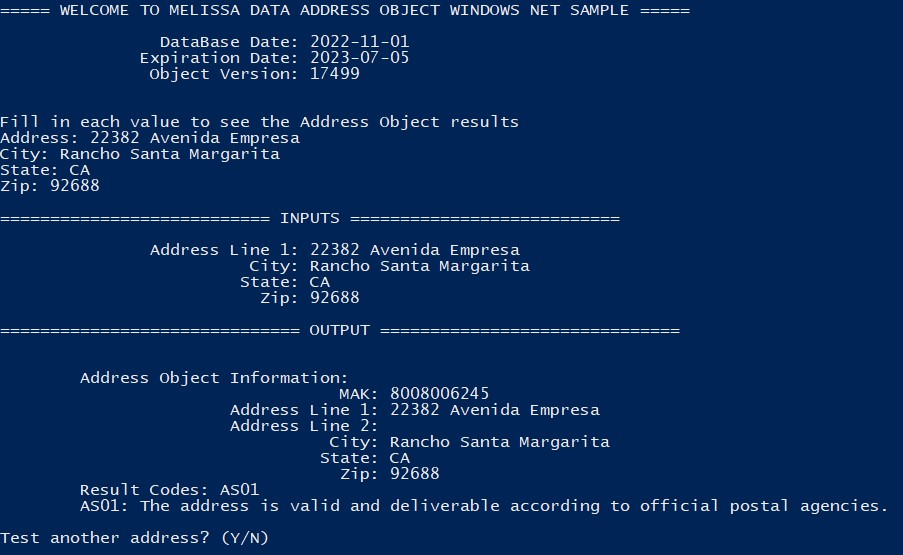
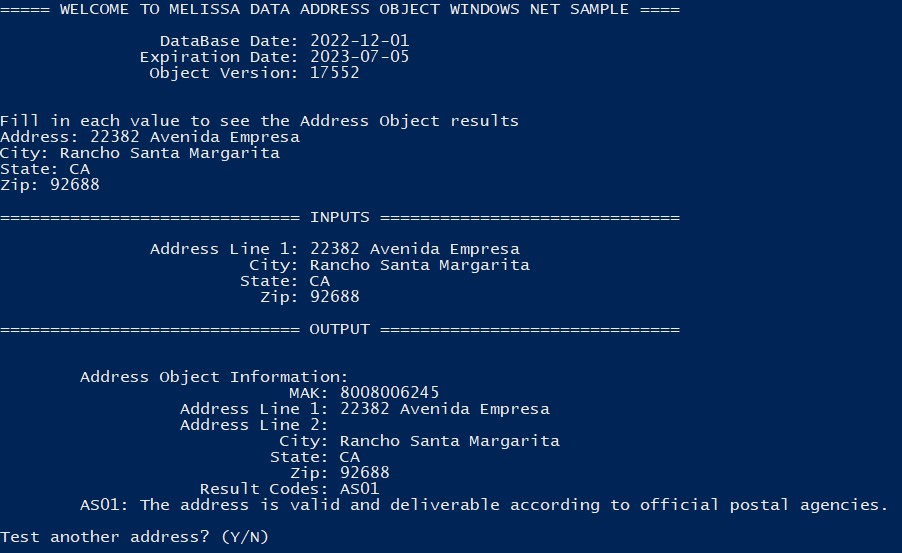
Commit C# Dotnet sample code for Address Object with .NET 7.0

diff --git a/MelissaDataAddressObjectWindowsNETSample/Program.cs b/MelissaDataAddressObjectWindowsNETSample/Program.cs
@@ -66,7 +66,7 @@ namespace MelissaDataAddressObjectWindowsNETSample
 
     static void RunAsConsole(string license, string testAddress, string testCity, string testState, string testZip, string dataPath)
     {
-      Console.WriteLine("\n\n===== WELCOME TO MELISSA DATA ADDRESS OBJECT WINDOWS NET SAMPLE =====\n");
+      Console.WriteLine("\n\n===== WELCOME TO MELISSA DATA ADDRESS OBJECT WINDOWS NET SAMPLE ====\n");
 
       AddressObject addressObject = new AddressObject(license, dataPath);
 
@@ -85,24 +85,16 @@ namespace MelissaDataAddressObjectWindowsNETSample
         {
           Console.WriteLine("\nFill in each value to see the Address Object results");
 
-          Console.WriteLine("Address:");
-          Console.CursorTop -= 1;
-          Console.CursorLeft = 9;
+          Console.Write("Address: ");
           dataContainer.Address = Console.ReadLine();
         
-          Console.WriteLine("City:");
-          Console.CursorTop -= 1;
-          Console.CursorLeft = 6;
+          Console.Write("City: ");
           dataContainer.City = Console.ReadLine();
         
-          Console.WriteLine("State:");
-          Console.CursorTop -= 1;
-          Console.CursorLeft = 7;
+          Console.Write("State: ");
           dataContainer.State = Console.ReadLine();
         
-          Console.WriteLine("Zip:");
-          Console.CursorTop -= 1;
-          Console.CursorLeft = 5;
+          Console.Write("Zip: ");
           dataContainer.Zip = Console.ReadLine();
         }
         else
@@ -114,7 +106,7 @@ namespace MelissaDataAddressObjectWindowsNETSample
         }
 
         // Print user input
-        Console.WriteLine("\n=========================== INPUTS ===========================\n");
+        Console.WriteLine("\n============================== INPUTS ==============================\n");
         Console.WriteLine($"               Address Line 1: {dataContainer.Address}");
         Console.WriteLine($"                         City: {dataContainer.City}");
         Console.WriteLine($"                        State: {dataContainer.State}");
@@ -126,14 +118,13 @@ namespace MelissaDataAddressObjectWindowsNETSample
         // Print output
         Console.WriteLine("\n============================== OUTPUT ==============================\n");
         Console.WriteLine("\n\tAddress Object Information:");
-
-        Console.WriteLine($"\t                          MAK: {addressObject.mdAddressObj.GetMelissaAddressKey()}");
-        Console.WriteLine($"\t               Address Line 1: {addressObject.mdAddressObj.GetAddress()}");
-        Console.WriteLine($"\t               Address Line 2: {addressObject.mdAddressObj.GetAddress2()}");
-        Console.WriteLine($"\t                         City: {addressObject.mdAddressObj.GetCity()}");
-        Console.WriteLine($"\t                        State: {addressObject.mdAddressObj.GetState()}");
-        Console.WriteLine($"\t                          Zip: {addressObject.mdAddressObj.GetZip()}");
-        Console.WriteLine($"\tResult Codes: {dataContainer.ResultCodes}");
+        Console.WriteLine($"\t                     MAK: {addressObject.mdAddressObj.GetMelissaAddressKey()}");
+        Console.WriteLine($"\t          Address Line 1: {addressObject.mdAddressObj.GetAddress()}");
+        Console.WriteLine($"\t          Address Line 2: {addressObject.mdAddressObj.GetAddress2()}");
+        Console.WriteLine($"\t                    City: {addressObject.mdAddressObj.GetCity()}");
+        Console.WriteLine($"\t                   State: {addressObject.mdAddressObj.GetState()}");
+        Console.WriteLine($"\t                     Zip: {addressObject.mdAddressObj.GetZip()}");
+        Console.WriteLine($"\t            Result Codes: {dataContainer.ResultCodes}");
 
         String[] rs = dataContainer.ResultCodes.Split(',');
         foreach (String r in rs)

diff --git a/README.md b/README.md
@@ -23,7 +23,7 @@ And return
 
 ## Tested Environments
 
-- Windows 64-bit .NET 6.0, .NET 5.0, .NET Core 3.1
+- Windows 64-bit .NET 7.0, .NET 6.0, .NET 5.0, .NET Core 3.1
 - Powershell 5.1
 - Melissa data files for 2022-12
 
@@ -63,28 +63,28 @@ This is the c++ code of the Melissa Data Object
 
 These instructions will get you a copy of the project up and running on your local machine for development and testing purposes.
 
-This project is compatible with .NET 6.0, .NET 5.0, and .NET Core 3.1. If you would like to run this project for any other version besides .NET 6.0, proceed with the following procedures but check for and download your desired .NET version.
+This project is compatible with .NET 7.0, .NET 6.0, .NET 5.0, and .NET Core 3.1. If you would like to run this project for any other version besides .NET 7.0, proceed with the following procedures but check for and download your desired .NET version.
 
 #### Install the Dotnet Core SDK
-Before starting, make sure that the .NET 6.0 SDK has been correctly installed on your machine (If you have Visual Studio installed, you most likely have it already). If you are unsure, you can check by opening a command prompt window and typing the following:
+Before starting, make sure that the .NET 7.0 SDK has been correctly installed on your machine (If you have Visual Studio installed, you most likely have it already). If you are unsure, you can check by opening a command prompt window and typing the following:
 
 `dotnet --list-sdks`
 
-If the .NET 6.0 SDK is already installed, you should see it in the following list:
+If the .NET 7.0 SDK is already installed, you should see it in the following list:
 
 ![alt text](/screenshots/dotnet_output.png)
 
-As long as the above list contains version `6.0.xxx` (underlined in red), then you can skip to the next step. If your list does not contain version 6.0, or you get any kind of error message, then you will need to download and install the .NET 6.0 SDK from the Microsoft website.
+As long as the above list contains version `7.0.xxx` (underlined in red), then you can skip to the next step. If your list does not contain version 7.0, or you get any kind of error message, then you will need to download and install the .NET 7.0 SDK from the Microsoft website.
 
 To download, follow this link: https://dotnet.microsoft.com/en-us/download/dotnet
 
-Select `.NET 6.0` and you will be navigated to the download page.
+Select `.NET 7.0` and you will be navigated to the download page.
 
 Click and download the `x64` SDK installer for your operating system.
 
 (IMPORTANT: Make sure you download the SDK, NOT the runtime. the SDK contains both the runtime as well as the tools needed to build the project.)
 
-![alt text](/screenshots/net6.png)
+![alt text](/screenshots/net7.png)
 
 Once clicked, your web browser will begin downloading an installer for the SDK. Run the installer and follow all of the prompts to complete the installation (your computer may ask you to restart before you can continue). Once all of that is done, you should be able to verify that the SDK is installed with the `dotnet --list-sdks` command.
 
@@ -127,13 +127,14 @@ Melissa Updater is a CLI application allowing the user to update their Melissa a
 
 Depending on your target .NET framework, you may need to configure the powershell script. In order to do this, open up the `MelissaDataAddressObjectWindowsNETSample.ps1` for editing, proceed to the bottom of the script where you will find this section of code.
 
-Default set for .NET 6.0
+Default set for .NET 7.0
 ```
-dotnet publish -f="net6.0" -c Release -o $BuildPath MelissaDataAddressObjectWindowsNETSample\MelissaDataAddressObjectWindowsNETSample.csproj
+dotnet publish -f="net7.0" -c Release -o $BuildPath MelissaDataAddressObjectWindowsNETSample\MelissaDataAddressObjectWindowsNETSample.csproj
+#dotnet publish -f="net6.0" -c Release -o $BuildPath MelissaDataAddressObjectWindowsNETSample\MelissaDataAddressObjectWindowsNETSample.csproj
 #dotnet publish -f="net5.0" -c Release -o $BuildPath MelissaDataAddressObjectWindowsNETSample\MelissaDataAddressObjectWindowsNETSample.csproj
 #dotnet publish -f="netcoreapp3.1" -c Release -o $BuildPath MelissaDataAddressObjectWindowsNETSample\MelissaDataAddressObjectWindowsNETSample.csproj
 ```
-The target framework is specified with the -f flag found in the command line. If you wish to use any version besides .NET 6.0, please uncomment the line containing that framework and comment out the line containing the .NET 6.0 framework (# to comment).
+The target framework is specified with the -f flag found in the command line. If you wish to use any version besides .NET 7.0, please uncomment the line containing that framework and comment out the line containing the .NET 7.0 framework (# to comment).
 
 ## Run Powershell Script
 Parameters:
@@ -162,25 +163,25 @@ There are two modes:
 
 - Command Line
 
-You can pass an address, city, state, zip, and a license string into the ```-address```, ```-city```, ```-state```, ```-zip```, and ```-license``` parameters respectively to test Address Object. For example:
+    You can pass an address, city, state, zip, and a license string into the `-address`, `-city`, `-state`, `-zip`, and `-license` parameters respectively to test Address Object. For example:
+    
+    With all parameters:
+    ```
+    $ .\MelissaDataAddressObjectWindowsNETSample.ps1 -address "22382 Avenida Empresa" -city "Rancho Santa Margarita" -state "CA" -zip "92688"
+    $ .\MelissaDataAddressObjectWindowsNETSample.ps1 -address "22382 Avenida Empresa" -city "Rancho Santa Margarita" -state "CA" -zip "92688" -license "<your_license_string>"
+    ```
 
-With all parameters:
-```
-$ .\MelissaDataAddressObjectWindowsNETSample.ps1 -address "22382 Avenida Empresa" -city "Rancho Santa Margarita" -state "CA" -zip "92688"
-$ .\MelissaDataAddressObjectWindowsNETSample.ps1 -address "22382 Avenida Empresa" -city "Rancho Santa Margarita" -state "CA" -zip "92688" -license "<your_license_string>"
-```
+    With any known (optional) parameters:
+    ```
+    $ .\MelissaDataAddressObjectWindowsNETSample.ps1 -address "22382 Avenida Empresa" -state "CA" 
+    $ .\MelissaDataAddressObjectWindowsNETSample.ps1 -address "22382 Avenida Empresa" -state "CA" -license "<your_license_string>"
+    ```
 
-With any known (optional) parameters:
-```
-$ .\MelissaDataAddressObjectWindowsNETSample.ps1 -address "22382 Avenida Empresa" -state "CA" 
-$ .\MelissaDataAddressObjectWindowsNETSample.ps1 -address "22382 Avenida Empresa" -state "CA" -license "<your_license_string>"
-```
+    For quiet mode:
+    ```
+    $ .\MelissaDataAddressObjectWindowsNETSample.ps1 -address "22382 Avenida Empresa" -city "Rancho Santa Margarita" -state "CA" -zip "92688" -quiet
+    $ .\MelissaDataAddressObjectWindowsNETSample.ps1 -address "22382 Avenida Empresa" -city "Rancho Santa Margarita" -state "CA" -zip "92688" -license "<your_license_string>" -quiet
 
-For quiet mode:
-```
-$ .\MelissaDataAddressObjectWindowsNETSample.ps1 -address "22382 Avenida Empresa" -city "Rancho Santa Margarita" -state "CA" -zip "92688" -quiet
-$ .\MelissaDataAddressObjectWindowsNETSample.ps1 -address "22382 Avenida Empresa" -city "Rancho Santa Margarita" -state "CA" -zip "92688" -license "<your_license_string>" -quiet
-```
 This is the expected outcome of a successful setup for interactive mode:
 
 ![alt text](/screenshots/output.JPG)
